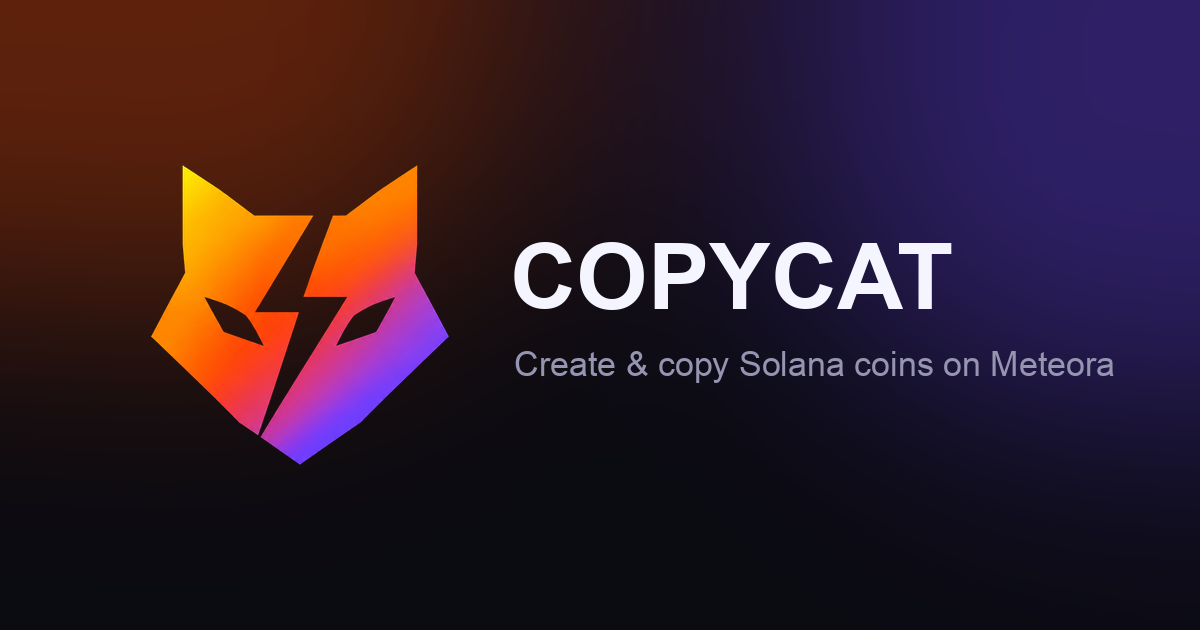
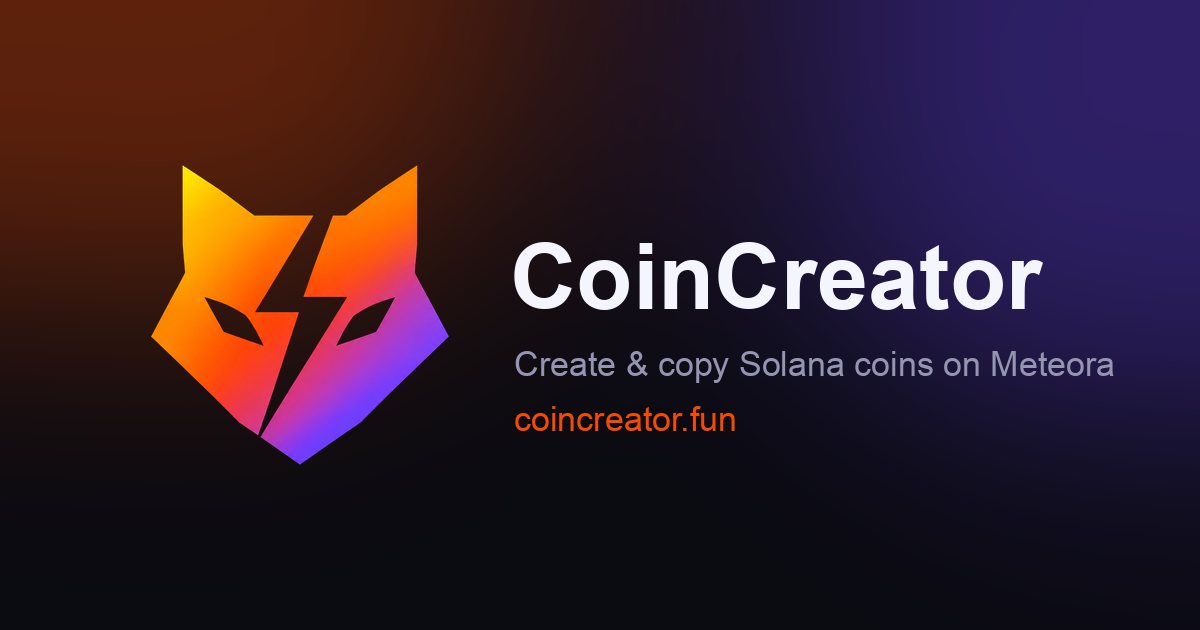
snapshot: brand = CoinCreator, domain coincreator.fun

Changed region(s): [[0.4625, 0.3619, 0.8633, 0.5127], [0.4317, 0.6333, 0.6167, 0.6937]]

diff --git a/web/app/layout.tsx b/web/app/layout.tsx
@@ -11,7 +11,8 @@ const jakarta = Plus_Jakarta_Sans({ variable: "--font-jakarta", subsets: ["latin
 const mono = Geist_Mono({ variable: "--font-geist-mono", subsets: ["latin"] });
 
 export const metadata: Metadata = {
-  title: `${site.name.toUpperCase()} — Create & copy Solana coins on Meteora`,
+  metadataBase: new URL(site.url ?? "https://coincreator.fun"),
+  title: `${site.name} — Create & copy Solana coins on Meteora`,
   description: "Create a Solana coin, add Meteora liquidity, or copy a trending coin in one click.",
 };
 

diff --git a/web/components/Header.tsx b/web/components/Header.tsx
@@ -43,7 +43,10 @@ export function Logo() {
           <svg width="18" height="18" viewBox="0 0 24 24" fill="#fff"><path d="M13 2 4 14h7l-1 8 9-12h-7z" /></svg>
         </span>
       )}
-      <span className="hidden font-display text-[17px] font-bold uppercase tracking-[0.08em] sm:inline">{site.name}</span>
+      <span className="hidden font-display text-[18px] font-bold tracking-tight sm:inline">
+        {site.name}
+        <span className="text-brand">.fun</span>
+      </span>
     </Link>
   );
 }

diff --git a/brand/build.py b/brand/build.py
@@ -55,7 +55,8 @@ def og(mark: Image.Image, w=1200, h=630) -> Image.Image:
     bold = ImageFont.truetype("/System/Library/Fonts/Supplemental/Arial Bold.ttf", 92)
     reg = ImageFont.truetype("/System/Library/Fonts/Supplemental/Arial.ttf", 34)
     t = ImageDraw.Draw(img)
-    t.text((510, 225), "COPYCAT", font=bold, fill=(245, 245, 255))
+    t.text((510, 225), "CoinCreator", font=bold, fill=(245, 245, 255))
+    t.text((514, 400), "coincreator.fun", font=reg, fill=(245, 75, 0))
     t.text((514, 345), "Create & copy Solana coins on Meteora", font=reg, fill=(149, 149, 178))
     return img.convert("RGB")
 

diff --git a/docs/01_STATUS.md b/docs/01_STATUS.md
@@ -1,4 +1,4 @@
-# COPYCAT — status
+# CoinCreator (coincreator.fun) — status
 
 Updated: 2026-10-06
 
@@ -8,7 +8,7 @@ Updated: 2026-10-06
 - `npm test` — routes called directly against live DexScreener, upload guards (host allowlist, origin, type sniff), RPC method allowlist (8/8).
 
 ## Left
-- Name/brand (COPYCAT is a working name), logo (`ops/site.sh logo`).
+- Name = CoinCreator, domain coincreator.fun (owner 2026-10-06). Logo = Higgsfield cat+lightning mark (brand/).
 - Treasury wallet (`ops/wallet.sh new treasury` or owner's address) → `NEXT_PUBLIC_TREASURY`.
 - Create Coin service fee = 0.5 SOL (owner 2026-10-06); options + liquidity fees still placeholders (env `NEXT_PUBLIC_FEE_*`).
 - Vercel project + env, then one real mainnet run with a tiny amount.

diff --git a/docs/00_BRIEF.md b/docs/00_BRIEF.md
@@ -1,4 +1,4 @@
-# COPYCAT — brief (working name)
+# CoinCreator (coincreator.fun) — brief
 
 1. Pitch: oriontools.io, but pools go on **Meteora DAMM v2** instead of Raydium, plus **Copy Trending** (clone a trending coin's name/ticker/image/socials in one click, data from DexScreener).
 2. Why it wins vs the reference: Orion has no copy flow and only Raydium; Meteora DAMM v2 pools charge swap fees paid in SOL to the creator and can be locked forever (trust signal).
